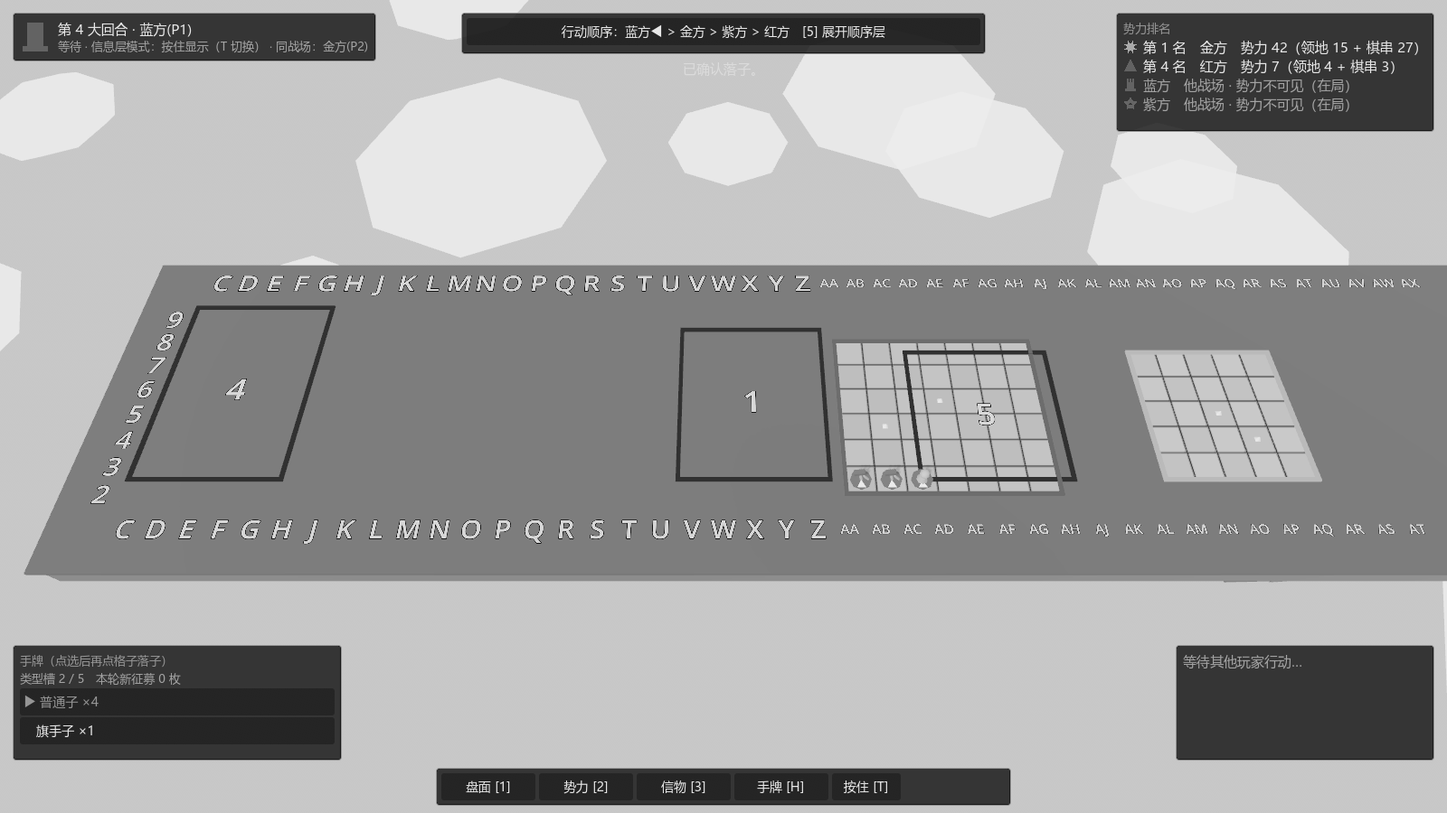
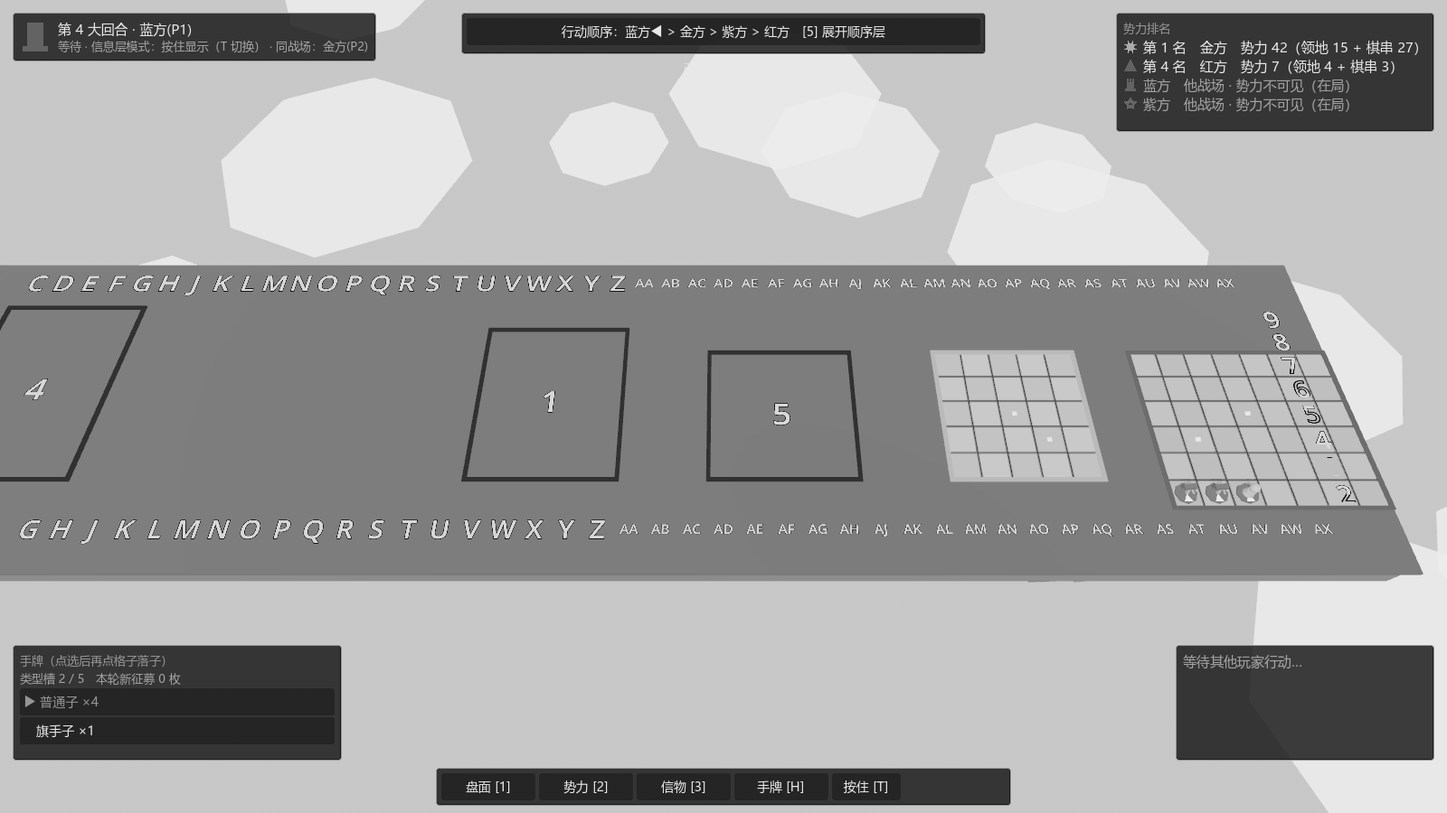
fix(board-link-mode): 段 F.6——他人拼接平移本机棋盘时按布局指纹重搭（开局取景框全），滑入演出起点封顶 4 格

diff --git a/tests/Siege.Core.Tests/SettlementShow/棋盘展开节拍Tests.cs b/tests/Siege.Core.Tests/SettlementShow/棋盘展开节拍Tests.cs
@@ -34,6 +34,25 @@ public class 棋盘展开节拍Tests
         return (before, after, opponents, match, new LinkLayout(match.Board.BaseMap.Boards, match.Links.Select(l => l.ShiftStep)));
     }
 
+    /// <summary>演出起点封顶（裁决 J12-2）：东贴沿 +x、北贴沿 +y，偏 min(拼接前两战场的相对偏移, 4) 格。</summary>
+    private static (int Dx, int Dy) Capped(int relDx, int relDy, bool east)
+    {
+        int reach = Math.Min(Math.Max(Math.Abs(relDx), Math.Abs(relDy)), LinkShowBeats.SlideCap);
+        return east ? (reach, 0) : (0, reach);
+    }
+
+    /// <summary>手搭的两块 5×5 出生棋盘与一条链接（0 + 1，1 号被贴方平移 <paramref name="moverShift"/>）的布局换算，以及 <paramref name="viewer"/> 号视角的拼接前后默认棋盘（只有格坐标有意义）。</summary>
+    private static (DefaultBoardView Before, DefaultBoardView After, LinkLayout Layout) Synthetic(Coord moverOrigin, (int Dx, int Dy) moverShift, int viewer)
+    {
+        BoardPlate[] plates = [new(new Coord(2, 2), 5, 5, BoardPlateKind.Birth), new(moverOrigin, 5, 5, BoardPlateKind.Birth)];
+        var layout = new LinkLayout(plates, [new LinkShiftStep(0, 1, [new BattlefieldShift(0, 0, 0), new BattlefieldShift(1, moverShift.Dx, moverShift.Dy)])]);
+        DefaultBoardView View(IEnumerable<Coord> coords) =>
+            new(64, 64, [.. coords.Order().Select(c => new BoardCellView(c, default, 0, default, false, null, null, default, null, null))], [], [], []);
+        DefaultBoardView before = View(plates[viewer].Cells());
+        DefaultBoardView after = View(plates[0].Cells().Concat(layout.BoardAt(1, 1).Cells()));
+        return (before, after, layout);
+    }
+
     private static (int Dx, int Dy) Delta(LinkLayout layout, int zone)
     {
         Coord was = layout.BoardAt(zone, 0).Origin;
@@ -57,12 +76,13 @@ public class 棋盘展开节拍Tests
         var reveal = Assert.IsType<OpponentRevealBeat>(beats[2]);
         var banner = Assert.IsType<BannerBeat>(beats[3]);
 
-        // 滑的是对方那块（出生棋盘 1，拼接后坐标），起点 = 拼接前相对本机的位置：偏移 = 本机位移 − 对方位移。
+        // 滑的是对方那块（出生棋盘 1，拼接后坐标）。
+        // board-link-mode F.6：原断言"起点 = 拼接前相对本机的位置（本机位移 − 对方位移）"改为裁决 J12-2 的封顶口径——首轮东贴，从东侧偏 min(相对偏移, 4) 格滑入。
         HashSet<Coord> theirs = [.. match.Map.BirthZones[1]];
         Assert.Equal(theirs.Order(), slide.Cells.Order());
         (int myDx, int myDy) = Delta(layout, 0);
         (int theirDx, int theirDy) = Delta(layout, 1);
-        Assert.Equal((myDx - theirDx, myDy - theirDy), (slide.FromDx, slide.FromDy));
+        Assert.Equal(Capped(myDx - theirDx, myDy - theirDy, east: true), (slide.FromDx, slide.FromDy));
         Assert.NotEqual((0, 0), (slide.FromDx, slide.FromDy));
 
         Assert.Equal(theirs.Order(), reveal.Cells.Order());                                       // 显现的是对方那块出生棋盘
@@ -88,8 +108,27 @@ public class 棋盘展开节拍Tests
         Assert.Equal(match.Map.BirthZones[0].Order(), reveal.Cells.Order());
         (int myDx, int myDy) = Delta(layout, 1);
         (int theirDx, int theirDy) = Delta(layout, 0);
-        Assert.Equal((theirDx - myDx, theirDy - myDy), (slide.FromDx, slide.FromDy));
+        // board-link-mode F.6：原断言"起点 = 对方位移 − 本机位移"改为裁决 J12-2 的封顶口径——本机棋盘从东侧偏 min(相对偏移, 4) 格滑过去。
+        Assert.Equal(Capped(theirDx - myDx, theirDy - myDy, east: true), (slide.FromDx, slide.FromDy));
         Assert.Equal([P0], opponents);
+    }
+
+    [Theory]
+    [InlineData(38, 2, -31, 0, true, 4)]    // 东贴、相对偏移 31 → 演出起点只差 4 格
+    [InlineData(10, 2, -3, 0, true, 3)]     // 东贴、相对偏移 3 → 按 3
+    [InlineData(2, 40, 0, -33, false, 4)]   // 北贴、相对偏移 33 → 从北侧 4 格往南滑入
+    [InlineData(2, 9, 0, -2, false, 2)]     // 北贴、相对偏移 2 → 按 2
+    public void 滑入起点封顶四格_真实平移照旧(int moverX, int moverY, int shiftX, int shiftY, bool east, int reach)
+    {
+        // 裁决 J12-2：滑动方从"终点沿贴边反方向偏 min(实际偏移, 4) 格"的位置滑到终点；真实平移向量照旧在布局换算（链接记录）里，封顶只影响演出。
+        foreach (int viewer in new[] { 0, 1 })
+        {
+            (DefaultBoardView before, DefaultBoardView after, LinkLayout layout) = Synthetic(new Coord(moverX, moverY), (shiftX, shiftY), viewer);
+            var slide = Assert.IsType<BoardSlideBeat>(LinkShowBeats.Expansion(before, after, [P1], layout, 0)[0]);
+            Assert.Equal(layout.BoardAt(1, 1).Cells().Order(), slide.Cells.Order());                // 锚点 0 视角滑对方、被贴方 1 视角滑本机：都是 1 号那块
+            Assert.Equal(east ? (reach, 0) : (0, reach), (slide.FromDx, slide.FromDy));
+            Assert.Equal(new Coord(moverX + shiftX, moverY + shiftY), layout.BoardAt(1, 1).Origin);   // 真实平移不封顶
+        }
     }
 
     [Fact]
@@ -109,6 +148,32 @@ public class 棋盘展开节拍Tests
         Assert.NotEqual(layout.BoardAt(0, 0).Origin, layout.BoardAt(0, 1).Origin);
         // 反面：P2 的战场确实长出了格（拼入 4 号）。
         Assert.True(match.World(P2).Board().Cells.Length > Map.BirthZones[3].Count);
+    }
+
+    [Fact]
+    public void 他人链接平移本机棋盘_布局指纹变_引擎层据此重搭()
+    {
+        // 裁决 J12-1 根因（board-link-mode F.6）：他人链接把本机战场收拢平移后，本机看得见的格的逐格属性序列（可落子 / 高度 / 地表 / 桥）不变，
+        // 引擎层原先的地形指纹只看这串序列 → 不重搭、画面停在旧坐标、开局对准自检只见 23 / 25。布局指纹须带坐标、画布与占位。
+        (DefaultBoardView before, DefaultBoardView after, _, _, LinkLayout layout) = LinkedFor(P0, [0, 0, 3, 4]);
+        Assert.NotEqual(layout.BoardAt(0, 0).Origin, layout.BoardAt(0, 1).Origin);
+
+        // 原失败局面：旧指纹（逐格属性 + 栅栏）前后相同。
+        static string PropertiesOnly(DefaultBoardView v) =>
+            string.Concat(v.Cells.Select(c => $"{(int)c.Terrain}{c.Height}{(int)c.Surface}{(c.HasBridge ? 1 : 0)};")) + "|" + string.Concat(v.Fences.Select(f => $"{f};"));
+        Assert.Equal(PropertiesOnly(before), PropertiesOnly(after));
+
+        Assert.NotEqual(before.LayoutKey(), after.LayoutKey());
+        // 单看格坐标也要分得出（画布、棋盘清单、占位都不动，只把格整体东移 1 格）。
+        DefaultBoardView shifted = before with { Cells = [.. before.Cells.Select(c => c with { Coord = new Coord(c.Coord.X + 1, c.Coord.Y) })] };
+        Assert.NotEqual(before.LayoutKey(), shifted.LayoutKey());
+
+        // 反面：没有链接的大回合（只 Pass）指纹不变——不会每回合重搭。
+        MatchFlow quiet = Started([0, 0, 3, 4], new ScriptedPairingSource());
+        string opening = quiet.World(P0).Board().LayoutKey();
+        quiet.PassRound();
+        Assert.Empty(quiet.Links);
+        Assert.Equal(opening, quiet.World(P0).Board().LayoutKey());
     }
 
     [Fact]

diff --git a/src/Siege.Presentation/Show/LinkShowBeats.cs b/src/Siege.Presentation/Show/LinkShowBeats.cs
@@ -86,6 +86,9 @@ public static class LinkShowBeats
     /// <summary>他场结算的提示条文案（不打断操作）。</summary>
     public static string SettledElsewhereText(int battlefield, PlayerId winner) => $"战场 {BirthZoneLabel.Of(battlefield)} 已结算，胜者 {Labels.Player(winner)}";
 
+    /// <summary>滑入演出起点相对终点的最大偏移（格，裁决 J12-2）。</summary>
+    public const int SlideCap = 4;
+
     /// <summary>四个拼接节拍的基准总时长（毫秒；裁决 J5：滑入约 900 + 重定界约 500 + 显现约 600 + 横幅）。</summary>
     public const int ExpansionTotalMs = BoardSlideBeat.Ms + CameraPullBeat.Ms + OpponentRevealBeat.Ms + BannerBeat.PerBannerMs;
 
@@ -93,7 +96,7 @@ public static class LinkShowBeats
     /// 棋盘拼接（board-link-mode F.4 / 裁决 J5）：由本机结算前后两份按座位过滤的默认棋盘与布局换算 <see cref="LinkLayout"/>（版本 <paramref name="fromVersion"/> → 最新）得出。
     /// 结算前本机的格先按平移向量映射到拼接后坐标，再与拼接后的格比：没有新增格（本机不参与的链接，即便它把本机战场收拢平移了）→ 空序列，不把平移误判为新增。
     /// 新增格即对方战场。锚点一方（含最小出生棋盘编号的战场）不动、被贴方滑入：本机是锚点 → 对方棋盘滑入；本机是被贴方 → 本机棋盘滑过去贴合。
-    /// 滑动的起点 = 拼接前两战场的相对位置（两侧平移向量之差），同一配对事件里的两条链接自然合成一次。
+    /// 滑动的起点在终点沿贴边反方向 min(拼接前两战场的相对偏移, <see cref="SlideCap"/>) 格处（东贴从东、北贴从北），同一配对事件里的两条链接自然合成一次。
     /// 之后：相机重定界到合并后战场包围盒 → 对方格上的棋子 / 设施 / 已揭示信物显现 → 横幅"棋盘拼接：与 X 交战"。
     /// <paramref name="newOpponents"/> 是链接后新成为同战场的玩家。
     /// </summary>
@@ -123,9 +126,14 @@ public static class LinkShowBeats
         (int myDx, int myDy) = Delta(myZone);
         (int theirDx, int theirDy) = Delta(theirZone);
         bool anchor = myZone < theirZone;
-        BoardSlideBeat slide = anchor
-            ? new BoardSlideBeat(added, myDx - theirDx, myDy - theirDy)
-            : new BoardSlideBeat(mine, theirDx - myDx, theirDy - myDy);
+        ImmutableArray<Coord> moving = anchor ? added : mine;
+        ImmutableArray<Coord> staying = anchor ? mine : added;
+        // 演出起点封顶（裁决 J12-2）：被贴方从终点沿贴边反方向偏 min(实际相对偏移, SlideCap) 格的位置滑到终点——东贴从东侧往西滑入、北贴从北侧往南滑入；
+        // 本机是被贴方时滑的是本机棋盘，同一几何。真实平移向量照旧在链接记录里，封顶只影响演出。
+        int actual = Math.Max(Math.Abs(theirDx - myDx), Math.Abs(theirDy - myDy));
+        int reach = Math.Min(actual, SlideCap);
+        bool east = moving.Min(c => c.X) > staying.Max(c => c.X);
+        BoardSlideBeat slide = east ? new BoardSlideBeat(moving, reach, 0) : new BoardSlideBeat(moving, 0, reach);
 
         return
         [

diff --git a/src/godot/scripts/BoardView.cs b/src/godot/scripts/BoardView.cs
@@ -146,12 +146,12 @@ public sealed partial class BoardView : Node3D
         ArgumentNullException.ThrowIfNull(board);
         ArgumentNullException.ThrowIfNull(zoneOwners);
 
-        // 幂等：插旗锁定后要按出生区归属重染地砖，会再搭一次；地形被改造后 Refresh 也会再搭一次（见 TerrainKeyOf）。
+        // 幂等：插旗锁定后要按出生区归属重染地砖，会再搭一次；地形被改造、或拼接平移了本机看得见的格 / 占位后，Refresh 也会再搭一次（见 DefaultBoardView.LayoutKey）。
         Clear(this);
         int loadedBefore = TerrainParts.LoadedCount;
         int generatedBefore = TerrainParts.GeneratedCount;
         _zoneOwners = zoneOwners;
-        _terrainKey = TerrainKeyOf(board);
+        _terrainKey = board.LayoutKey();
         _tileMaterials.Clear();
         _surfaceMaterials.Clear();
         _linerMaterials.Clear();
@@ -1479,7 +1479,7 @@ public sealed partial class BoardView : Node3D
 
         // 地形不再是对局内不变量（artisan-terrain-edit）：架桥 / 立栅 / 烧林都改地砖、水面、栅栏与 _levels（新桥格要能被拾取），
         // 而这些只在 Build 里搭。地形指纹一变就整体重搭一次——2.6 第 12 条原写"GameRoot 每次刷新都重跑 Build"，实际不是，这里补上。
-        if (TerrainKeyOf(board) != _terrainKey)
+        if (board.LayoutKey() != _terrainKey)
         {
             Build(board, _zoneOwners);
         }
@@ -1520,27 +1520,6 @@ public sealed partial class BoardView : Node3D
         DrawPreview(preview, focus);
         DrawFlash(flash);
         ApplySlide(mask ?? ShowMask.Empty);   // 全部画完再收拢滑动战场的节点；没有滑动中的格就全部并回（board-link-mode F.4b）
-    }
-
-    /// <summary>
-    /// 地形指纹：可落子 / 高度 / 地表 / 桥 + 全部栅栏边。只读默认棋盘视图模型，不读地图、不判改造。
-    /// 预置设施与本局改造在这里<b>本来就分不出</b>——指纹变了只说明"要重搭"，不说明是谁改的。
-    /// </summary>
-    private static string TerrainKeyOf(DefaultBoardView board)
-    {
-        var sb = new System.Text.StringBuilder();
-        foreach (BoardCellView cell in board.Cells)
-        {
-            sb.Append((int)cell.Terrain).Append(cell.Height).Append((int)cell.Surface).Append(cell.HasBridge ? '1' : '0').Append(';');
-        }
-
-        sb.Append('|');
-        foreach (FenceEdge fence in board.Fences)
-        {
-            sb.Append(fence).Append(';');
-        }
-
-        return sb.ToString();
     }
 
     private static void Clear(Node container)
@@ -1686,7 +1665,7 @@ public sealed partial class BoardView : Node3D
         ArgumentNullException.ThrowIfNull(treatment);
         ArgumentNullException.ThrowIfNull(mask);
         DefaultBoardView board = world.Board();
-        if (TerrainKeyOf(board) != _terrainKey)
+        if (board.LayoutKey() != _terrainKey)
         {
             // 链接后第一帧演出（board-link-mode F.4）：拼接后的布局要先搭出来，滑入节拍才有东西可移。重搭保位姿（Rebound 只随本机棋盘位移平移注视点）。
             Build(board, _zoneOwners);

diff --git a/src/Siege.Presentation/Visibility/DefaultBoardView.cs b/src/Siege.Presentation/Visibility/DefaultBoardView.cs
@@ -134,6 +134,43 @@ public sealed record DefaultBoardView(
     /// </summary>
     public ImmutableArray<BoardPlaceholderView> Placeholders { get; init; } = [];
 
+    /// <summary>
+    /// 布局指纹（引擎层"要不要整体重搭"的唯一判据，board-link-mode F.6 / 裁决 J12-1）：画布尺寸、每格的<b>坐标</b>与可落子 / 高度 / 地表 / 桥、全部栅栏边、
+    /// 棋盘清单与 5 块占位（编号、原点、展开、本机）。拼接会平移格的坐标、重裁画布、平移占位——这些都必须让指纹变；
+    /// 只落子 / 提子不变。原先引擎层的指纹只看逐格属性的序列、不看坐标，他人链接把本机战场收拢平移后格的属性序列不变，于是不重搭、画面停在旧坐标。
+    /// 预置设施与本局改造在这里本来就分不出——指纹变了只说明"要重搭"，不说明是谁改的。
+    /// </summary>
+    public string LayoutKey()
+    {
+        var sb = new System.Text.StringBuilder();
+        sb.Append(Width).Append('x').Append(Height).Append('|');
+        foreach (BoardCellView cell in Cells)
+        {
+            sb.Append(cell.Coord.X).Append(',').Append(cell.Coord.Y).Append(':')
+                .Append((int)cell.Terrain).Append(cell.Height).Append((int)cell.Surface).Append(cell.HasBridge ? '1' : '0').Append(';');
+        }
+
+        sb.Append('|');
+        foreach (FenceEdge fence in Fences.IsDefault ? [] : Fences)
+        {
+            sb.Append(fence).Append(';');
+        }
+
+        sb.Append('|');
+        foreach (BoardPlate plate in Boards.IsDefault ? [] : Boards)
+        {
+            sb.Append(plate.Origin.X).Append(',').Append(plate.Origin.Y).Append(':').Append(plate.Width).Append('x').Append(plate.Height).Append((int)plate.Kind).Append(';');
+        }
+
+        sb.Append('|');
+        foreach (BoardPlaceholderView p in Placeholders)
+        {
+            sb.Append(p.Zone).Append('@').Append(p.Origin.X).Append(',').Append(p.Origin.Y).Append(p.Expanded ? 'E' : '-').Append(p.Own ? 'O' : '-').Append(';');
+        }
+
+        return sb.ToString();
+    }
+
     /// <summary>某格。不在本视图里（链接模式下未展开的战场）抛出——拾取 / 悬停请先用 <see cref="CellOrNull"/>。</summary>
     public BoardCellView CellAt(Coord coord) =>
         CellOrNull(coord) ?? throw new ArgumentOutOfRangeException(nameof(coord), coord.ToNotation(), "坐标不在本视图的格里（超出棋盘范围或未展开）。");

diff --git a/.trellis/tasks/10-12-board-link-mode-f/implement.md b/.trellis/tasks/10-12-board-link-mode-f/implement.md
@@ -503,3 +503,56 @@ Legacy 既有测试断言一条未改；v5 / board:1 决策序列基线、黄金
 | J12-5 | 新增截图 / 演示参数 `--zone=N` | 只给无人值守演示用 | 接受；HANDOFF 改写时并入命令清单 |
 | J12-6 | 冒烟结论：对局很短（中位 11 大回合），战场结算全靠整轮 Pass、落败全是手里有子时 Pass（28/28） | 只报告 | 登记到 C15（AI 不知道 Pass 会触发战场结算）的后续 change；必要时复核构筑期长度或结算门槛 |
 | J12-7 | 一次 headless 运行偶发 `Illegal instruction`（退出码 132，`--zone=2 --seed=2`），同命令重跑退出 0 | 无法复现 | 观察；若再现，抓 Godot 崩溃日志 |
+
+# F.6（裁决 J12-1 开局取景、J12-2 滑入封顶）
+
+## 1. J12-1：非 1 号出生棋盘"开局对准"只见 23 / 25
+
+- **根因（不是相机）**：`BoardView` 的地形指纹 `TerrainKeyOf` 只拼逐格属性（可落子 / 高度 / 地表 / 桥）+ 栅栏，**不含格坐标、画布尺寸、占位**。`--zone=2 --seed=4` 第 39 帧他人链接（1 + 5）把本机所在 2 号战场收拢平移（x 36 → 33，裁决 J7 / J8-1），本机看得见的 25 格属性序列不变 → 指纹相同 → 不重搭、不 `Rebound`，地砖停在旧坐标，而视图模型已是新坐标；演示结束时 `HomePlatformFramed` 按新坐标投影本机棋盘的角点，于是 23 / 25。加 `--rounds=1` 时链接还没发生，所以看不出来。定位依据：临时调试行（已删，`git diff` 干净）显示链接后无重搭、无 `[camera]` 重定界行。
+- **修法（Presentation）**：`DefaultBoardView.LayoutKey()`（新增，纯函数）= 画布宽高 + 每格坐标与属性 + 栅栏 + 棋盘清单 + 占位（编号、原点、展开、本机）。`BoardView` 的 3 处 `TerrainKeyOf(board)` 改为 `board.LayoutKey()`，`TerrainKeyOf` 删除。相机侧（`BoardCamera` / `CameraPose`）未改：重搭后既有 `Rebound(bounds, focus, shiftX, shiftZ)` 就能把相机带到新坐标。
+- **测试**：`棋盘展开节拍Tests.他人链接平移本机棋盘_布局指纹变_引擎层据此重搭`。用 `[0,0,3,4]` 复现原失败局面（3 + 4 链接平移 P0 的棋盘），先断言"旧指纹前后相同"作为样本口径，再断言 `LayoutKey` 不同；只把格整体东移 1 格也必须不同；反面：没有链接、只 Pass 的大回合指纹不变（不会每回合重搭）。
+- **变异**（`mutate.py`，二进制备份、锚点命中 1 次、finally 还原、逐字节比对）：
+  - MF6-1：`LayoutKey` 退回只看逐格属性 → 红 1（即上面这条）。
+  - "变红 / 修后变绿"就是这样验证的：修复前没有 `LayoutKey()`，新测试在 HEAD 上编译不过，所以把 `LayoutKey` 变回旧指纹作为"修复前"（红 1），还原后为"修复后"（绿）。
+  - MF6-2：`LayoutKey` 不带格坐标 → 第一次跑红 0（占位原点也会随平移变化，把它补上了）。于是给测试加了"只东移格坐标"的断言，重跑红 1。
+- **开局对准 20 次**（`--auto-demo --zone=N --seed=S`，N = 1..5，S = 1..4，headless 顺序单跑）：**20 / 20 通过**，退出码全 0，ERROR 0。
+  - 没有用 `--rounds=1`：失败只出现在他人链接平移本机棋盘之后，`--rounds=1` 下链接还没发生，测不到。改用缺省 4 大回合，18 次发生了首轮链接，`z1s2`、`z2s2` 两次 4 大回合内没有链接。
+  - 原失败局面 `z2s4` 现为 25 / 25，链接后有一次重搭。
+  - 覆盖本机为被贴方并被平移的局面（如 `z4s2` 2 + 4、`z5s2` 2 + 5）与他人链接收拢平移本机的局面（如 `z2s4`、`z4s1`）。
+  - 每局一行明细在 scratchpad `f6open/`（不入库）。
+
+## 2. J12-2：滑入起点封顶 4 格
+
+- `LinkShowBeats.Expansion`：新增 `SlideCap = 4`。演出起点 = 终点沿贴边方向偏 `min(拼接前两战场相对偏移的切比雪夫长度, 4)` 格：东贴 `(k, 0)`，从东侧往西滑入；北贴 `(0, k)`，从北侧往南滑入。贴边方向按几何判断：滑动方最西列 > 不动方最东列即为东贴，否则为北贴。本机是被贴方时，滑动的是本机棋盘，几何相同。相机跟随（`CameraPose.FollowSlide`）读的是同一份 `FromDx / FromDy`，没有改。`LinkRecord` / `LinkLayout` 的真实平移不变。
+- **改动的既有断言**（均带 `board-link-mode F.6：` 注释）：
+  1. `首轮链接演出_四个节拍依次`：原为 `(slide.FromDx, slide.FromDy) == (myDx - theirDx, myDy - theirDy)`，现为 `Capped(myDx - theirDx, myDy - theirDy, east: true)`。
+  2. `本机是被贴方_本机棋盘滑过去贴合`：原为 `== (theirDx - myDx, theirDy - myDy)`，现为 `Capped(theirDx - myDx, theirDy - myDy, east: true)`。
+- **新增** `滑入起点封顶四格_真实平移照旧`（Theory × 4，每例锚点 / 被贴方两种视角都测）：手搭两块 5×5 棋盘和一条链接。东贴偏移 31 → `(4, 0)`；东贴偏移 3 → `(3, 0)`；北贴偏移 33 → `(0, 4)`；北贴偏移 2 → `(0, 2)`。同时断言布局换算里的真实平移没有被封顶。
+- **变异**：MF6-3 不封顶 → 红 4（2 条改过的既有测试 + Theory 的大偏移例）；MF6-4 贴边方向判反 → 红 7（另含"本机为被贴方时滑入期间相机跟随本机棋盘"）。还原后同批 152 绿。
+
+## 3. 截图（非 headless，1600×900，未读入会话）
+
+- `f-splice-mid`（`--auto-demo --seed=5 --shot-show=expand`，帧 39）：自证行 `滑入半程（508‰，25 格，偏移 1.97,0 格）`，F.4b 时为 5.41。灰度均值 157.7 / 暗 4.3% / 亮 35.4%。
+- `f-splice-mid-mover`（`--auto-demo --seed=2 --zone=3 --shot-show=expand`，帧 38）：`滑入半程（500‰，42 格，偏移 2,0 格）`，F.4b 时为 -15.5,0.5；`本机为被贴方：滑入半程相机注视点 (5.5, 0.5)，起点 (3.5, 0.5)`。158.6 / 3.6% / 35.1%。
+- 两张都重新生成了 `-gray`。README 两行补了"从东侧、起点封顶 4 格、半程偏移约 2 格"，帧号不变。
+
+## 4. 构建、测试、自检
+
+- `dotnet build siege.sln -c Release`：0 警告 0 错误；Godot 工程 0 警告 0 错误。
+- `dotnet test tests/Siege.Core.Tests -c Release`：**2395 条，通过 2385，跳过 10，失败 0**（新增 5 条：Theory 4 + Fact 1）。
+- headless 顺序单跑，退出码全 0、ERROR 0：
+  - `--auto-demo`：`[flow]` 6 条通过，开局对准 30 / 30；
+  - `--auto-demo --pick-check --seed=5`：30 / 30 → 55 / 55；
+  - `--map-select --auto-demo`：6 条通过，开局对准 35 / 35；
+  - `--auto-demo --rounds=0 --seed=5`：13 条通过，七步齐全，开局对准 30 / 30。
+
+## 5. 偏离与需裁决（J13 起）
+
+| 编号 | 事项 | 现状 | 建议 |
+|---|---|---|---|
+| J13-1 | J12-1 的修复位置：裁决写"修在 `BoardCamera` / `CameraPose` 一侧"，实际根因在引擎层重搭判据（视图指纹不看坐标），相机无错 | 修在 Presentation 的 `DefaultBoardView.LayoutKey()`，有单元测试和变异；Godot 只改为调用它；相机代码未动 | 接受 |
+| J13-2 | 20 次开局对准没有用 `--rounds=1`，用的是缺省 4 大回合 | `--rounds=1` 下链接还没发生，原缺陷测不到 | 接受 |
+| J13-3 | 被贴方的演出方向按裁决固定为"从东侧 / 北侧"，可能与真实位移方向相反。例：种子 2、`--zone=3`，3 号实际是向东平移了 31 格，演出改成从东侧 4 格往西滑入 | 按裁决实现 | 接受；若想"方向随真实位移、只封顶距离"，再改一行 |
+| J13-5 | "本机为被贴方时本机棋盘从反方向滑过去"的读法 | 按同一世界几何实现：滑动方总是从贴边一侧 4 格处滑向锚点，与谁在看无关；由于相机跟随本机棋盘，屏幕上看起来是锚点棋盘从反方向靠过来 | 接受；若要别的读法请裁决 |
+| J13-6 | 北贴 / 决赛的封顶分支 `(0, k)` 只有合成 Theory 覆盖 | headless 演出为零时长，不输出 `[slide]`；两张截图都是首轮东贴，没有实际看过决赛滑入。东贴、北贴是同一个表达式，MF6-3 / MF6-4 都红 | 接受；需要时补拍一张决赛滑入中间帧 |
+| J13-4 | 修复后，他人链接平移本机棋盘时引擎层会整体重搭一次（之前漏搭），会多一次 `[parts]` / `[batch]` 输出 | 无人值守下没有可见代价 | 接受 |

diff --git a/openspec/changes/board-link-mode/proposal.md b/openspec/changes/board-link-mode/proposal.md
@@ -45,6 +45,7 @@
 | J10 | 段 F.3 实施事项 | **2026-10-13 按建议**：J10-1 "坐标随链接平移"工具 `LinkLayout` 从 Sim 下沉到 `Siege.Core.Board.Maps`，Sim / Presentation / 测试共用一份（F.4 前提）；J10-2 发生链接的小回合快照中驿站来源与前瞻记录按回合开始时布局记、其余按回合结束时布局记；J10-3 `map --links` 未写贴边时单棋盘之间一律东贴，3+1 决赛须显式写 N |
 | J11 | 段 F.4 实施事项 | **2026-10-13 按建议**：J11-1 跳过数实为 10（全为 Perf / Slow，J8-9 过渡 Skip 全部恢复）；J11-2 连体棋盘外轮廓用中性边框色、本机阵营色只描自己那块外缘；J11-3 接受超范围修复：拼接那一小回合的结算节拍按坐标映射比对，不把平移当成落子与提子；J11-4 滑入演出时台面边框、格线、信物与改造标记随地砖一起滑，试玩前修；J11-5 本机为被贴方时滑入期间相机跟随本机棋盘；J11-6 `--shot-show=field` 取第一条横幅半程、新增 `[plates]` 自证行；J11-7 "他人链接画面不跳"由 Presentation 与相机测试守 |
 | J12 | 段 F.4b / F.5 实施事项 | **2026-10-13 按建议**：J12-1 非 1 号出生棋盘开局取景未框全（`--zone=2 --seed=4` 25 格只见 23），试玩前修；J12-2 滑入演出起点偏移封顶 4 格，始终从接缝一侧短距离滑入；J12-3 滑入期间两块各自带边框、到位帧切合并外轮廓；J12-4 节点归属按位置反推（台面打标记），接缝上标记误归属实测 0 次，接受；J12-5 新增演示参数 `--zone=N`，HANDOFF 改写时并入；J12-6 拼接后对局中位 11 大回合、战场结算全靠整轮 Pass 且落败者 28/28 手中有子，记入后续"AI 停手复核"change，本 change 不再调；J12-7 无头运行偶发 `Illegal instruction` 一次未复现，只观察。F.5 冒烟（10 局）：大回合 10 / 11 / 15，构筑 3 / 首轮 5.3 / 决赛 3.2，等待过的人次均值 2.33 最大 5，决赛战场 50–132 格，单小回合中位 47 ms 最大 884 ms |
+| J13 | 段 F.6 实施事项 | **2026-10-13 接受**：J13-1 开局取景根因是图形版重搭判据只看格属性不看坐标（他人拼接平移本机棋盘时未重搭），修为 Presentation `DefaultBoardView.LayoutKey()`，相机未改；J13-2 20 次开局验证用缺省 4 大回合（`--rounds=1` 时拼接未发生）；J13-3 演出方向固定为从东侧 / 北侧滑入，可能与真实位移方向相反；J13-4 他人拼接平移本机棋盘时整体重搭一次；J13-5 滑动方总朝锚点滑，被贴方视角下看到对方从反方向靠过来；J13-6 决赛北贴封顶只有合成测试覆盖 |
 | Q1–Q10 | design.md Open Questions 十项 | **2026-10-09 负责人确认全部按缺省**：Q1 链接前他人势力不可见；Q2 战场落败按出局结算；Q3 同场落败者按势力排；Q4 批量 / 终端缺省 `link:1`、图形版随机种子；Q5 放不下退化直通道；Q6 旧存档拒绝读取；Q7 AI v1 全知；Q8 选中即锁定；Q9 等待者由配对事件指定；Q10 批量 `run` 配对由对局种子派生 |
 
 ## What Changes

diff --git a/art/board-link-mode/README.md b/art/board-link-mode/README.md
@@ -7,8 +7,8 @@
 | `new-game` | `--map-select --screenshot=…` | 2 | 新局界面：背景 5 块占位一字排开，面板显示 `link:<种子>`，没有棋盘布局 |
 | `flags-placeholders` | `--screenshot=… --overview`（不带 `--auto-demo`，停在插旗） | 2 | 插旗阶段：5 个占位 + 编号一字排开（间距 3），没有任何格 |
 | `locked-own-board` | `--auto-demo --seed=5 --screenshot=… --overview` | 3 | 锁定后：自己那块（出生区 1）展开为棋盘，其余 4 块仍是占位 |
-| `f-splice-mid` | `--auto-demo --seed=5 --shot-show=expand --screenshot=…` | 39 | 拼接演出中间帧（本机为锚点）：对方棋盘（出生区 2）连同它的地砖、台面边框与格线、信物标记一起滑入半程（508‰），滑入期间两块各自带边框，其上棋子仍隐藏，相机不动 |
-| `f-splice-mid-mover` | `--auto-demo --seed=2 --zone=3 --shot-show=expand --screenshot=…` | 38 | 拼接演出中间帧（本机为被贴方，本机锁定 3 号棋盘）：本机棋盘连同棋子与标记滑过去（500‰），相机注视点随本机棋盘同步平移，画面里本机棋盘不动、2 号棋盘相对靠拢 |
+| `f-splice-mid` | `--auto-demo --seed=5 --shot-show=expand --screenshot=…` | 39 | 拼接演出中间帧（本机为锚点）：对方棋盘（出生区 2）连同它的地砖、台面边框与格线、信物标记一起从东侧滑入半程（508‰；起点封顶 4 格、裁决 J12-2，半程偏移约 2 格），滑入期间两块各自带边框，其上棋子仍隐藏，相机不动 |
+| `f-splice-mid-mover` | `--auto-demo --seed=2 --zone=3 --shot-show=expand --screenshot=…` | 38 | 拼接演出中间帧（本机为被贴方，本机锁定 3 号棋盘）：本机棋盘连同棋子与标记从东侧往西滑过去（500‰；起点封顶 4 格、裁决 J12-2，半程偏移 2 格），相机注视点随本机棋盘同步平移，画面里本机棋盘不动、2 号棋盘相对靠拢 |
 | `f-spliced-overview` | `--auto-demo --seed=5 --shot-cell=C5 --screenshot=…` | 41 | 首轮拼接（第 39 帧 1+2）后整张画布：连体棋盘 + 3 块占位；他人战场不显示 |
 | `f-spliced-closeup` | `--auto-demo --seed=5 --shot-board=1 --screenshot=…` | 42 | 拼接后近景（对准被贴方出生区 2）：两块出生棋盘的台面、地砖与格线连成一片，接缝无边框、无缝隙；边框只沿合并战场外轮廓 |
 | `f-final-overview` | `--auto-demo --rounds=0 --seed=5 --overview --screenshot=…` | 139 | 决赛拼接（第 137 帧 1+5，北贴）后的全局预览：三块出生棋盘拼成的连体棋盘 |

diff --git a/.trellis/workspace/rubioc/journal-1.md b/.trellis/workspace/rubioc/journal-1.md
@@ -243,3 +243,4 @@ Non-monotonic; raising it makes things worse. High Safety keeps a score-improvin
 - （10-12 续 2）段 D-d 完成并提交（D35–D42 全按建议）：全流程自检可断言（Presentation `LinkDemoAudit`）、链接后重跑拾取、提示条队列 `NoticeQueue`、24 张截图 + `art/board-link-mode/README.md` 人工检查清单。2376 条测试，通过 2365，跳过 11。待负责人人工试玩（命令见 HANDOFF / README），反馈后进段 E（设计文档 §3/§4/§12/§13/§19、HANDOFF 改写、归档）。
 - （10-12 续 3）段 D-d 提交 `fd4501e`，任务 D 归档。负责人人工试玩反馈：链接应是两块棋盘**直接拼接**，不要公共棋盘与两条通道 → 裁决 A（边对边紧贴成连体棋盘）+ J1–J6 全缺省（锚点最小编号、首轮东侧 / 决赛北侧、共享边最长、信物 1→2、坐标链接时平移、画布按布局裁出、演出改滑入贴合、段 F 顺序重做并重跑 10 局）。规格 `link-map-generation` 整体改写、`battlefield` / `settlement-show` / `visual-style-baseline` / design D2 同步，R1 / R3 / R4 / R6 作废。任务 F 已建，F.1–F.2（Core）先派。
 - （10-12 续 4）段 F Core（F.1 / F.2 / F.2b）完成并提交：初始 5 块出生棋盘固定间距排开、各 2 信物；链接 = 边对边拼接（锚点最小编号、首轮东 / 决赛北、共享边最长）；被贴方棋子 / 改造 / 信物 / 揭示随格平移；J7 原点优先固定、J8-1 以西战场不动、J8-3 越界候选排除 + 全越界整体平移、J9 口径接受。穷举 1600 次拼接：画布宽 23–68 高 9–18，合并战场 50–182 格；链接图基线种子 3 第 12 大回合终局。2379 条测试，通过 2366，跳过 13（J8-9 三条过渡 Skip，F.3 / F.4 恢复）。下一步 F.3 Sim。
+- （10-13）段 F 全部完成：F.3 Sim（日志改记贴边与平移向量、`LinkLayout` 下沉 Core）、F.4 / F.4b Godot（按新布局重搭、接缝连成一片、整块滑入、被贴方相机跟随）、F.5 冒烟 10 局（大回合 10 / 11 / 15，等待过的人次均值 2.3，单小回合中位 47 ms；落败者 28/28 手中有子即 Pass，记后续 AI 停手复核）、F.6（开局取景根因为重搭判据不看坐标，改 `LayoutKey()`；滑入封顶 4 格）。J10–J13 全按建议。2395 条测试，通过 2385，跳过 10。待负责人第二次试玩。

diff --git a/openspec/changes/board-link-mode/tasks.md b/openspec/changes/board-link-mode/tasks.md
@@ -62,7 +62,7 @@
 - [x] F.4b 裁决 J11-4 / J11-5：滑入演出时边框、格线、信物与改造标记随地砖一起滑；本机为被贴方时滑入期间相机跟随；重拍 `f-splice-mid`。
 - [x] F.5 拼接后小冒烟：`link:1` 标准难度 10 局，只报告对局长度、各阶段大回合数、等待时长、过早 Pass 落败、单小回合耗时。
 
-- [ ] F.6 裁决 J12-1 / J12-2：修非 1 号出生棋盘的开局取景（`--zone=1..5` × 若干种子开局对准全过）；滑入起点偏移封顶 4 格（锚点与被贴方两种视角）；重拍 `f-splice-mid`、`f-splice-mid-mover`。
+- [x] F.6 裁决 J12-1 / J12-2：修非 1 号出生棋盘的开局取景（`--zone=1..5` × 若干种子开局对准全过）；滑入起点偏移封顶 4 格（锚点与被贴方两种视角）；重拍 `f-splice-mid`、`f-splice-mid-mover`。
 
 ## 5. 段 E：收尾
 
